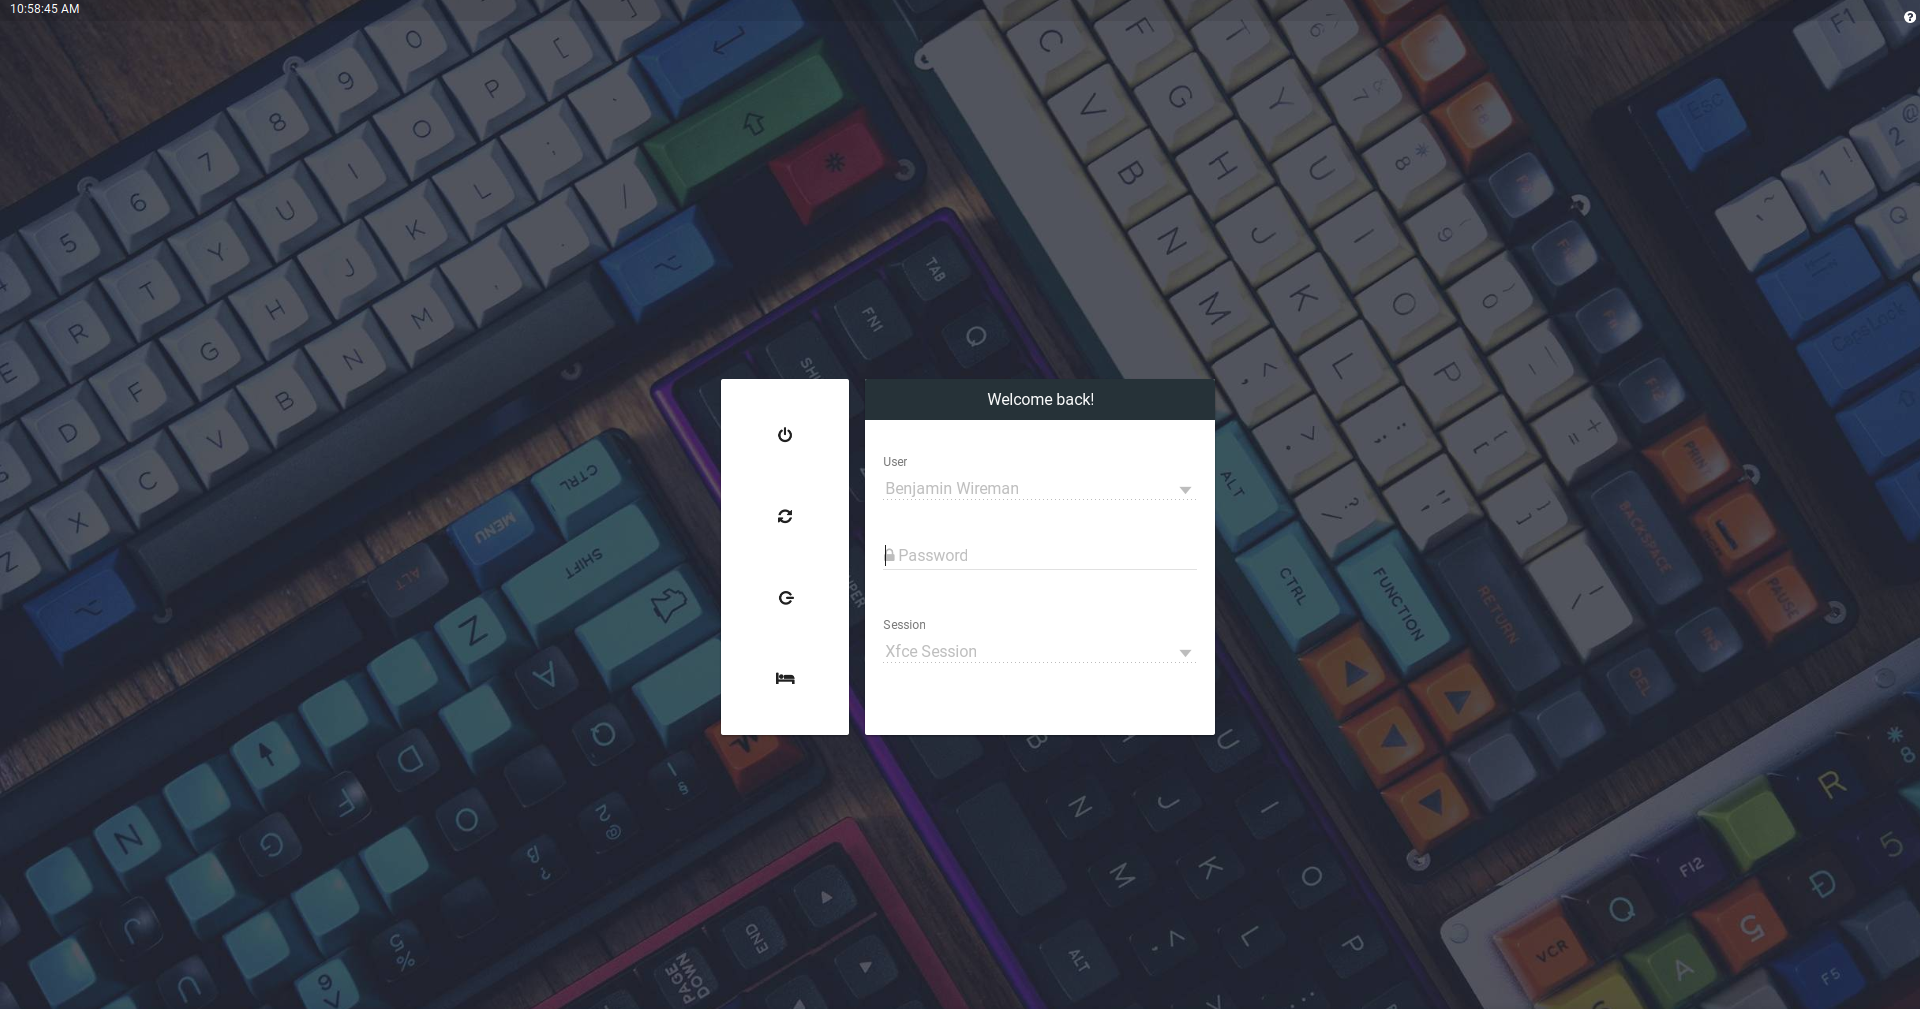
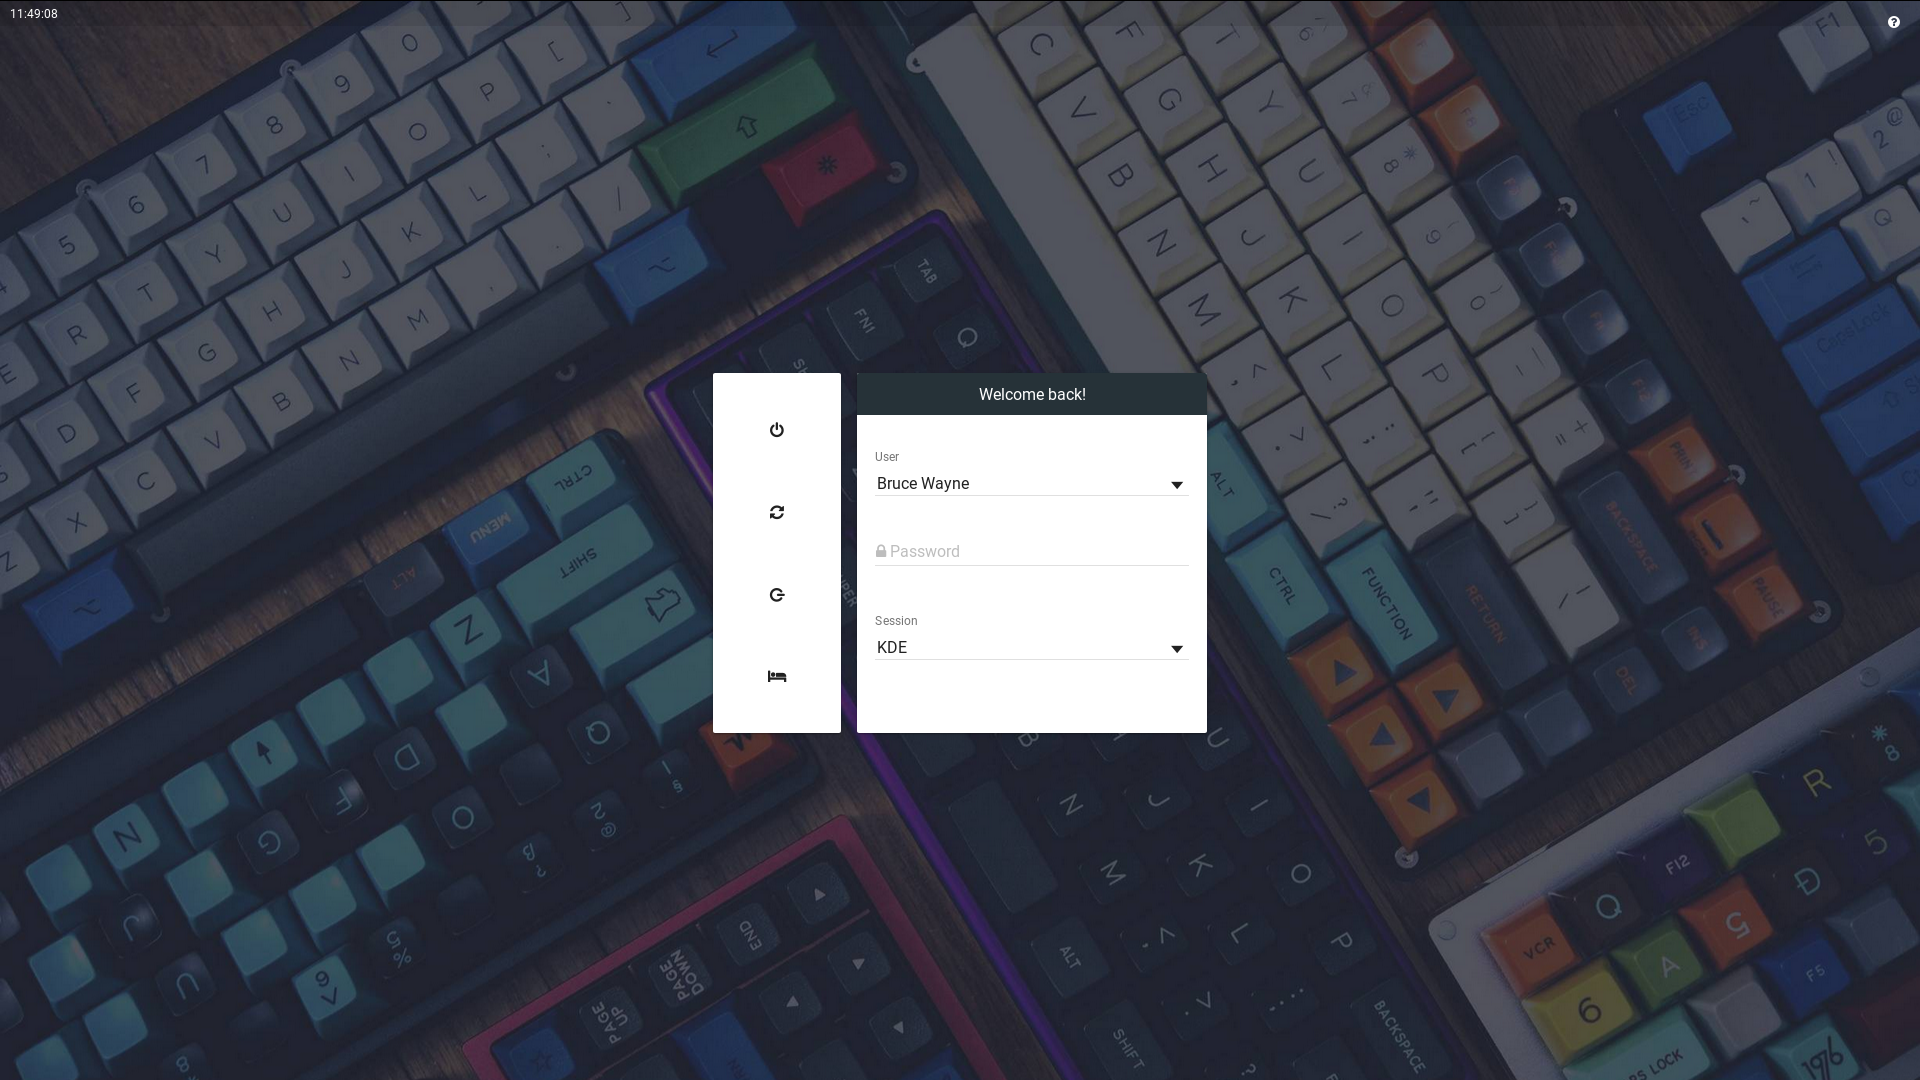
updated screenshot and helper button

diff --git a/index.html b/index.html
@@ -16,10 +16,14 @@
             <div id="clock" layout="column" layout-align="center center">
                 <span ng-controller="timeController">{{clock| date:format}}</span>
 
-                <md-button id="help-button" class="md-icon-button" aria-label="Help" ng-click="$root.card = 'help'"><i
-                    class="fa fa-question-circle"></i></md-button>
+                
             </div>
             
+            <span flex></span>
+
+            <md-button id="help-button" class="md-icon-button" aria-label="Help" ng-click="$root.card = 'help'"><i
+                class="fa fa-question-circle"></i></md-button>
+
         </header>
         <main layout="column" layout-align="center center" flex ng-switch on="$root.card">
             <div layout="row">
@@ -130,7 +134,7 @@
                 </md-card-content>
                 <md-card-actions layout="row" layout-align="space-around center">
                     <md-button ng-click="$root.card = 'login'"><i class="fa fa-ban"></i> Cancel</md-button>
-                    <md-button onclick="lightdm.hibernate();"><i class="fa fa-power-off "></i> Hibernate</md-button>
+                    <md-button onclick="lightdm.hibernate();"><i class="fa fa-bed"></i> Hibernate</md-button>
                 </md-card-actions>
             </md-card>
 
@@ -141,7 +145,7 @@
                     <b>Originally forked from</b>
                     <br />
                     <small><i>https://github.com/artur9010/lightdm-webkit-material</i></small>
-                    <b>Now maintained at</b>
+                    <b>This version kept at</b>
                     <br />
                     <small><i>https://github.com/bwireman/lightdm-webkit-material</i></small>
                     <div style="text-align: center;"><small>Crafted with <i class="fa fa-heart"></i> in Poland and the

diff --git a/assets/css/style.css b/assets/css/style.css
@@ -72,12 +72,6 @@ ng-cloak {
     display: none;
 }
 
-#help-button {
-    position: fixed;
-    top: 0;
-    right: 0;
-}
-
 .ng-leave {
     display: none;
 }
